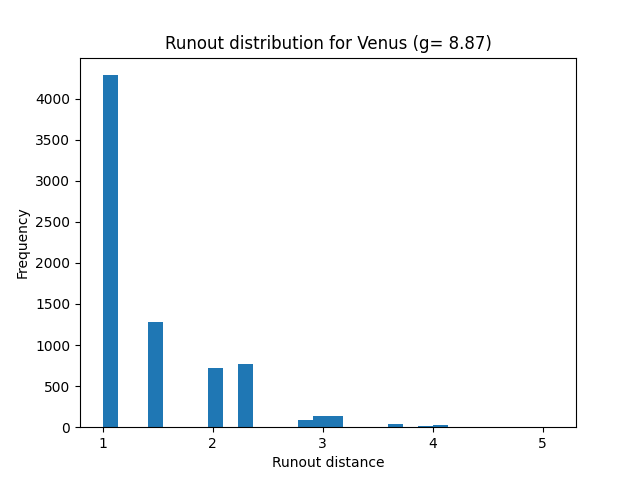
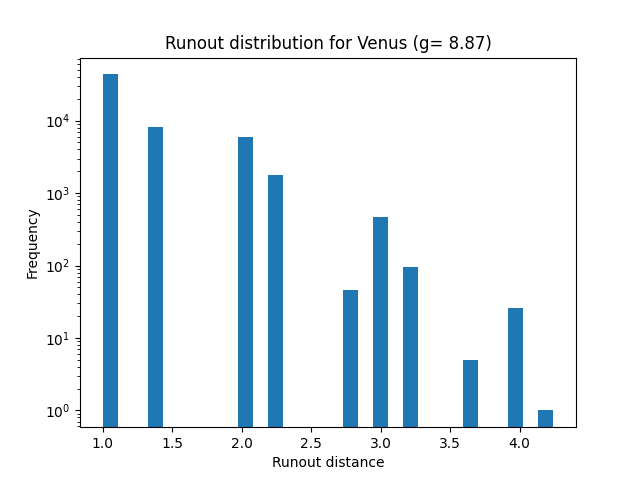
Before changing graphs format

diff --git a/Modeling avalanche.py b/Modeling avalanche.py
@@ -5,7 +5,7 @@ from numba import njit
 
 np.random.seed(5)
 
-max_steps = 1000
+max_steps = 500
 static = 4
 dynamic = 2
 planet_data = [("Mercury", 3.70), ("Venus", 8.87), ("Earth", 9.81), ("Mars", 3.71), ("Jupiter", 24.79), ("Saturn", 10.44), ("Uranus", 8.69), ("Neptune", 11.15)]
@@ -18,7 +18,7 @@ planet_data = [("Mercury", 3.70), ("Venus", 8.87), ("Earth", 9.81), ("Mars", 3.7
 #    dynamic_slope = math.tan(math.radians(dynamic_angle))
 #    return static_slope, dynamic_slope
 
-def mass_move_calc(g, g_ref = 9.81, mass_move_max = 1.0, mass_move_min = 0.05):
+def mass_move_calc(g, g_ref = 9.81, mass_move_max = 2.0, mass_move_min = 0.05):
     #F_friction = mu * m * g
     #mu and m stay the same, the only thing t$g_0hat changes is g
     #Bcs this is just a sandpile model of the system, 
@@ -27,12 +27,12 @@ def mass_move_calc(g, g_ref = 9.81, mass_move_max = 1.0, mass_move_min = 0.05):
 
 
     return max(min(val, mass_move_max), mass_move_min) #https://www.nature.com/articles/s41526-023-00308-w
-    
+
 
 #More stones topple if the gravity is lower I think, but I got to find a source?
 @njit
 def stones_per_topple(g):
-    orig_n_stones = max(1, int(9.81 / g))
+    orig_n_stones = max(1, int(2 * 9.81 / g))
     #friction_stones = max (1, int(orig_n_stones*fric))
     return orig_n_stones
 
@@ -74,9 +74,9 @@ def propagate_avalanche(terrain, i0, j0, n_stones, mass_move):
 
     Ni, Nj = terrain.shape #Dimensions of the terrain
 
-    if j0 >= Nj - 1:
-        terrain[i0, j0] -= n_stones
+    if 1 >= j0 >= Nj - 1 or 1 >= i0 >= Nj - 1:
         return terrain, 0.0
+
 
     start = [i0, j0]
     runoff_dist = 0
@@ -101,9 +101,8 @@ def propagate_avalanche(terrain, i0, j0, n_stones, mass_move):
         next = []
         for i, j in active:
 
-            if j >= Nj -1: 
-                terrain[i, j] -= n_stones
-                continue #If we cant go further
+            if 1 >= j0 >= Nj - 1 or 1 >= i0 >= Nj - 1:
+                continue
 
             
             current_height = terrain[i, j]
@@ -146,7 +145,7 @@ f = 0.2 #New stone probability probability
 
 target_num_avalanches = 300 
 repititions = 20
-size_of_terrain = 125
+size_of_terrain = 150
 
 all_runouts = {planet: [] for planet, g in planet_data}
 mean_runouts_per_rep = {planet: [] for planet, g in planet_data}
@@ -195,10 +194,10 @@ for planet, g in planet_data:
 gravities = [g for planet, g in planet_data]
 
 planet_colours = {
-    "Mercury": "red",
+    "Mercury": "brown",
     "Venus" : "orange",
     "Earth": "green",
-    "Mars": "brown",
+    "Mars": "red",
     "Jupiter": "blue",
     "Saturn": "purple",
     "Uranus": "cyan",
@@ -230,9 +229,13 @@ corr_mean = np.corrcoef(gravities, planet_means)[0,1]
 
 from scipy.stats import skew, kurtosis
 for planet, g in planet_data: 
+    counts, bins = np.histogram(all_runouts[planet], bins = 30)
+    for i in range(len(counts)):
+        print(f"Bin {i+1}: [{bins[i], bins[i+1]}] has {counts[i]} events")
     plt.figure()
     plt.hist(all_runouts[planet], bins = 30)
     plt.title(f"Runout distribution for {planet} (g= {g})")
+    plt.yscale("log")
     plt.xlabel("Runout distance")
     plt.ylabel("Frequency")
     plt.show()
@@ -240,7 +243,8 @@ for planet, g in planet_data:
     data = all_runouts[planet]
     if len(data) > 0:
         median_val = np.median(data)
+        mean_val = np.mean(data)
         iqr_val = np.percentile(data, 75) - np.percentile(data, 25)
         skew_val = skew(data)
         kurt_val = kurtosis(data)
-        print(f"{planet}: median={median_val:.2f}, IQR={iqr_val:.2f}, skew={skew_val:.2f}, kurtosis={kurt_val:.2f}")
+        print(f"{planet}: median={median_val:.2f}, mean={mean_val:.2f} IQR={iqr_val:.2f}, skew={skew_val:.2f}, kurtosis={kurt_val:.2f}")
